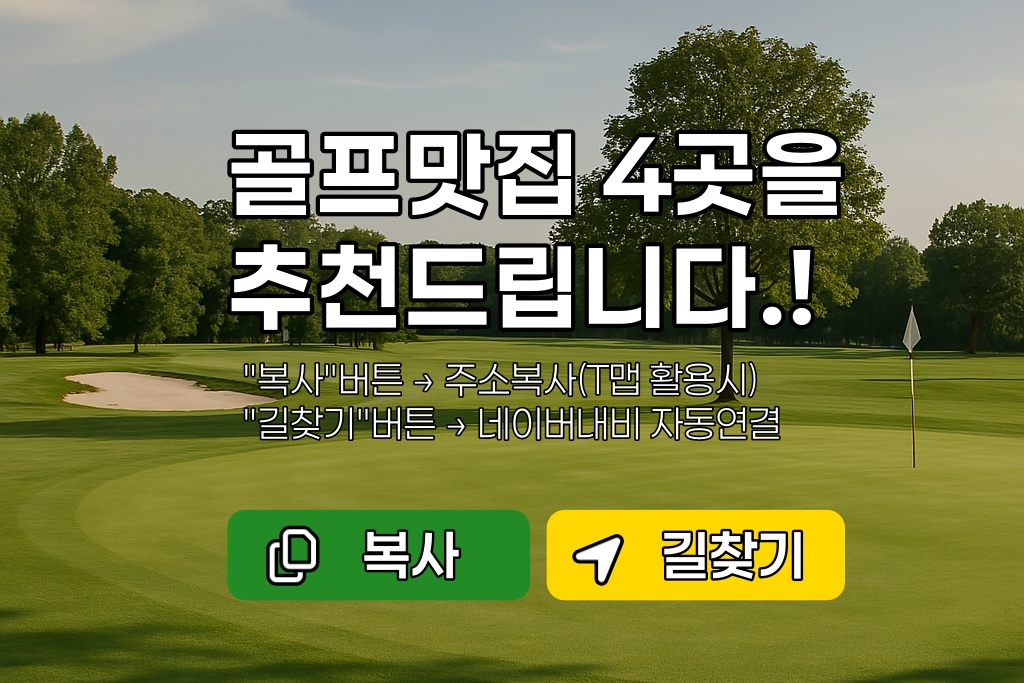
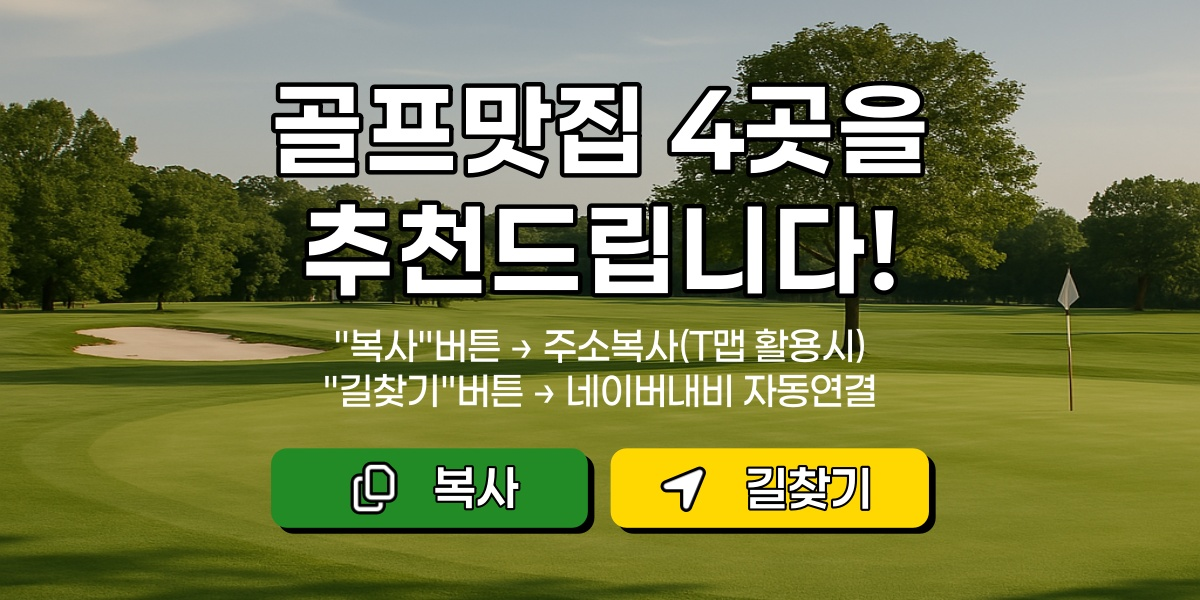
메인배너 수정
메인배너수정완료

Changed region(s): [[0.2188, 0.12, 0.8438, 0.69], [0.2188, 0.72, 0.8438, 0.9]]

diff --git a/style.css b/style.css
@@ -1,63 +1,63 @@
 /* Paperlogy 폰트 설정 */
 @font-face {
     font-family: 'Paperlogy-Regular';
-    src: url('./fonts/Paperlogy-Regular.ttf') format('truetype');
+    src: url('./fonts/Paperlogy-4Regular.ttf') format('truetype');
     font-weight: normal;
     font-style: normal;
 }
 
 @font-face {
     font-family: 'Paperlogy-Bold';
-    src: url('./fonts/Paperlogy-Bold.ttf') format('truetype');
+    src: url('./fonts/Paperlogy-7Bold.ttf') format('truetype');
     font-weight: bold;
     font-style: normal;
 }
 
 @font-face {
     font-family: 'Paperlogy-Light';
-    src: url('./fonts/Paperlogy-Light.ttf') format('truetype');
+    src: url('./fonts/Paperlogy-3Light.ttf') format('truetype');
     font-weight: 300;
     font-style: normal;
 }
 
 @font-face {
     font-family: 'Paperlogy-Medium';
-    src: url('./fonts/Paperlogy-Medium.ttf') format('truetype');
+    src: url('./fonts/Paperlogy-5Medium.ttf') format('truetype');
     font-weight: 500;
     font-style: normal;
 }
 
 @font-face {
     font-family: 'Paperlogy-SemiBold';
-    src: url('./fonts/Paperlogy-SemiBold.ttf') format('truetype');
+    src: url('./fonts/Paperlogy-6SemiBold.ttf') format('truetype');
     font-weight: 600;
     font-style: normal;
 }
 
 @font-face {
     font-family: 'Paperlogy-ExtraBold';
-    src: url('./fonts/Paperlogy-ExtraBold.ttf') format('truetype');
+    src: url('./fonts/Paperlogy-8ExtraBold.ttf') format('truetype');
     font-weight: 800;
     font-style: normal;
 }
 
 @font-face {
     font-family: 'Paperlogy-Black';
-    src: url('./fonts/Paperlogy-Black.ttf') format('truetype');
+    src: url('./fonts/Paperlogy-9Black.ttf') format('truetype');
     font-weight: 900;
     font-style: normal;
 }
 
 @font-face {
     font-family: 'Paperlogy-Thin';
-    src: url('./fonts/Paperlogy-Thin.ttf') format('truetype');
+    src: url('./fonts/Paperlogy-1Thin.ttf') format('truetype');
     font-weight: 100;
     font-style: normal;
 }
 
 @font-face {
     font-family: 'Paperlogy-ExtraLight';
-    src: url('./fonts/Paperlogy-ExtraLight.ttf') format('truetype');
+    src: url('./fonts/Paperlogy-2ExtraLight.ttf') format('truetype');
     font-weight: 200;
     font-style: normal;
 }
@@ -181,22 +181,46 @@ body {
     max-width: 1200px;
     margin: 0 auto;
     width: 100%;
+    display: flex;
+    justify-content: center;
+    align-items: center;
+    border-radius: 8px;
+    overflow: hidden;
+    box-shadow: 0 4px 10px rgba(0, 0, 0, 0.1);
+    border: 2px solid #1a6e3c;
 }
 
 .main-banner img {
     width: 100%;
-    max-width: 1200px;
-    height: auto;
+    height: 100%;
     max-height: 800px;
-    border-radius: 8px;
-    box-shadow: 0 4px 8px rgba(0, 0, 0, 0.1);
+    border-radius: 0;
+    object-fit: cover;
+    object-position: center center;
+    display: block;
 }
 
 @media (max-width: 480px) {
     .main-banner img {
-        max-width: 480px;
+        max-width: 100%;
+        height: auto;
         max-height: 420px;
-        aspect-ratio: 1/1;
+        aspect-ratio: auto;
+        object-fit: cover;
+        object-position: center center;
+        border-radius: 0;
+    }
+    
+    .logo-text {
+        font-size: 24px;
+    }
+    
+    .logo-image {
+        height: 28px;
+    }
+    
+    .logo-container {
+        padding: 0 30px;
     }
 }
 
@@ -205,7 +229,6 @@ body {
     margin-top: 0;
     padding: 0 20px;
     background-color: #ffffff;
-    padding-top: px;
     padding-bottom: 25px;
 }
 

diff --git a/index.html b/index.html
@@ -41,8 +41,8 @@
     <div class="banner-container">
         <a href="https://food.dokbun2.com">
             <picture>
-                <source media="(max-width: 480px)" srcset="https://blog.kakaocdn.net/dn/bjRzRC/btsNi5GOeru/IEZc0LIvbKkKFRawaCTKCK/img.jpg">
-                <img src="https://blog.kakaocdn.net/dn/bjRzRC/btsNi5GOeru/IEZc0LIvbKkKFRawaCTKCK/img.jpg" alt="골프 맛집 배너">
+                <source media="(max-width: 480px)" srcset="https://blog.kakaocdn.net/dn/wErvi/btsNivSGymq/nkF5nRa6aJIJoLQZY6YyN1/img.jpg">
+                <img src="https://blog.kakaocdn.net/dn/wErvi/btsNivSGymq/nkF5nRa6aJIJoLQZY6YyN1/img.jpg" alt="골프 맛집 배너">
             </picture>
         </a>
     </div>
